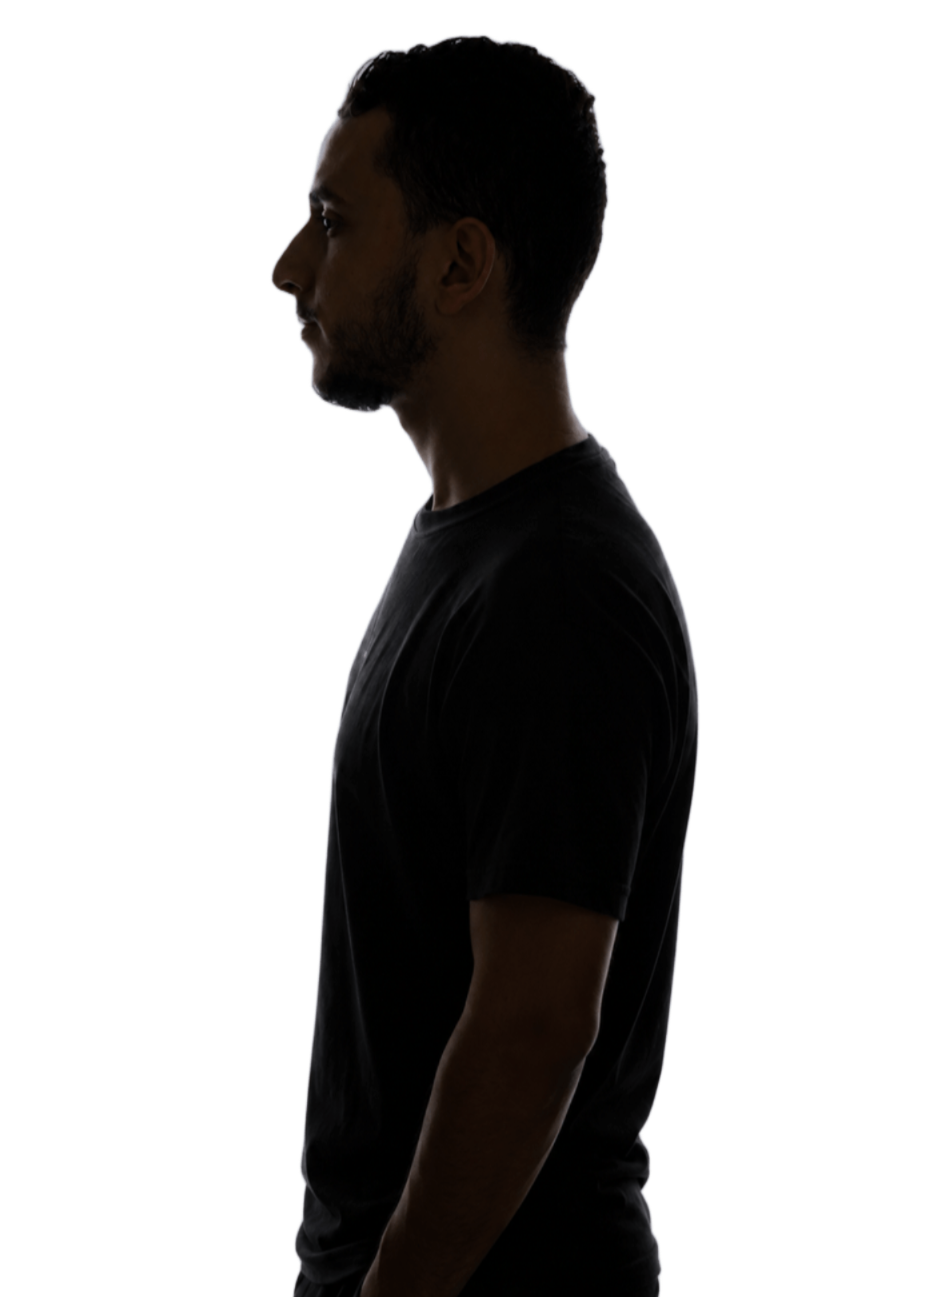
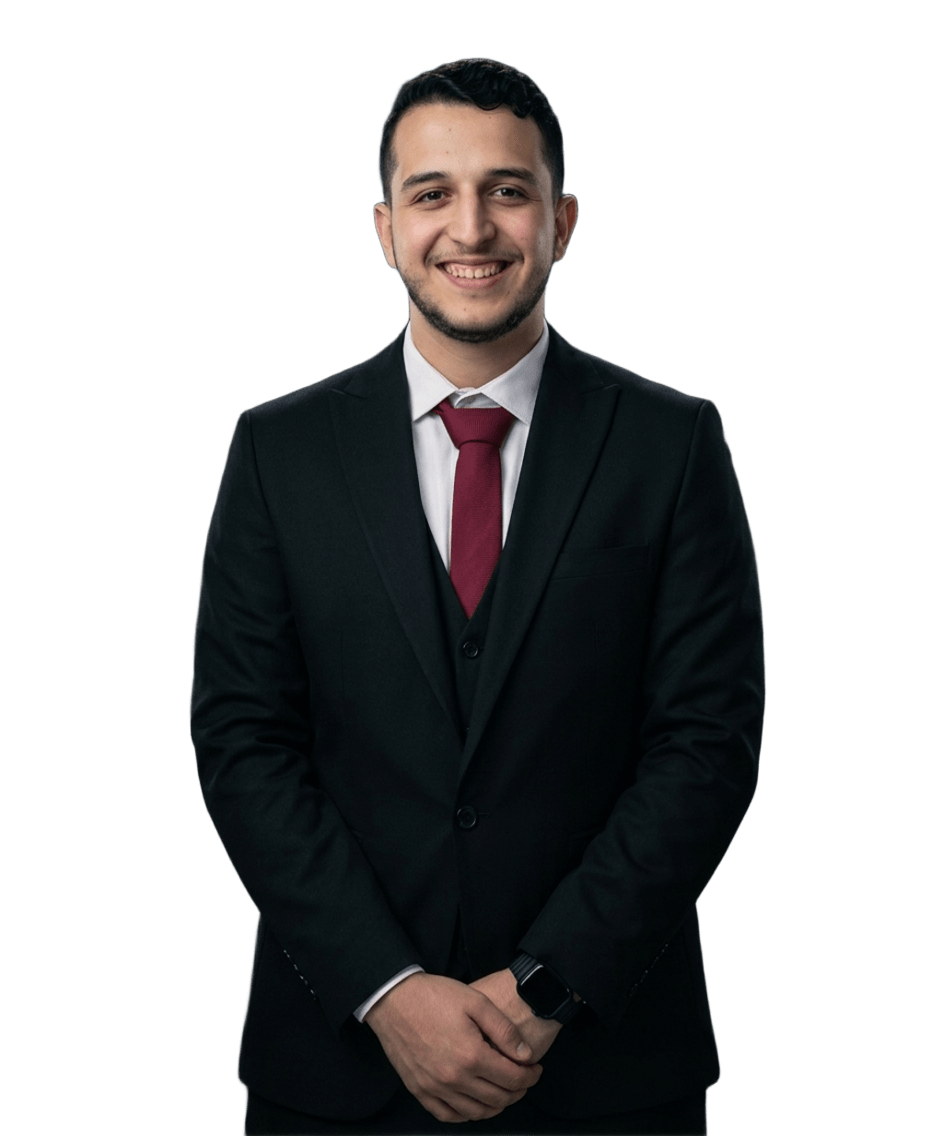
Quran Yutla: add real app screenshots gallery + phone-style cover
- Add 13 app screenshots (cover + shot-1..12) ordered by user journey
- Cover shows splash screen as a centered phone mockup on gradient
- Portrait gallery cells (2/3/4-col responsive grid)
- Update hero portfolio images

Changed region(s): [[0.1849, 0.0, 0.8321, 1.0], [0.5547, 0.7086, 0.678, 0.8319], [0.3698, 0.9551, 0.4006, 1.0]]

diff --git a/projects/quran-yutla/index.html b/projects/quran-yutla/index.html
@@ -38,7 +38,9 @@
   .btn.primary{background:var(--fg);color:var(--bg)}
   .btn.primary:hover{transform:translateY(-2px)}
   .btn.ghost:hover{background:var(--fg);color:var(--bg)}
-  .cover{margin-top:clamp(2rem,5vw,3rem);aspect-ratio:16/9;border-radius:22px;overflow:hidden;border:1px solid var(--border)}
+  .cover{margin-top:clamp(2rem,5vw,3rem);aspect-ratio:3/4;border-radius:22px;overflow:hidden;border:1px solid var(--border);display:flex;align-items:center;justify-content:center;background:linear-gradient(135deg,var(--accent-soft),var(--bg-alt))}
+  @media(min-width:760px){.cover{aspect-ratio:16/9}}
+  .cover img{height:90%;width:auto;max-width:92%;object-fit:contain;border-radius:1.4rem;box-shadow:0 24px 60px rgba(0,0,0,.35)}
   .ph{width:100%;height:100%;display:flex;align-items:center;justify-content:center;background:linear-gradient(135deg,var(--accent-soft),var(--bg-alt));color:var(--subtle);font-size:.85rem;font-weight:600;letter-spacing:.1em;text-transform:uppercase;text-align:center;padding:1rem}
   .ph svg{width:34px;height:34px;margin-bottom:.6rem;opacity:.6}
   section{padding:clamp(2rem,5vw,3.5rem) 0}
@@ -51,7 +53,10 @@
   ul.feat li::before{content:"";flex:0 0 auto;width:9px;height:9px;margin-top:.55rem;border-radius:3px;background:var(--accent)}
   .gallery{display:grid;grid-template-columns:repeat(2,1fr);gap:1rem}
   @media(min-width:760px){.gallery{grid-template-columns:repeat(3,1fr)}}
-  .gallery .cell{aspect-ratio:4/3;border-radius:16px;overflow:hidden;border:1px solid var(--border)}
+  @media(min-width:1000px){.gallery{grid-template-columns:repeat(4,1fr)}}
+  .gallery .cell{aspect-ratio:9/20;border-radius:16px;overflow:hidden;border:1px solid var(--border);background:var(--bg-alt);transition:transform .3s,border-color .3s}
+  .gallery .cell:hover{transform:translateY(-4px);border-color:var(--accent)}
+  .gallery .cell img{width:100%;height:100%;object-fit:cover;object-position:center;display:block}
   .divider{height:1px;background:var(--border)}
   .note{margin-top:1.2rem;font-size:.9rem;color:var(--subtle);font-style:italic}
   footer{padding:2.5rem 0 3.5rem;color:var(--subtle);font-size:.85rem;display:flex;justify-content:space-between;flex-wrap:wrap;gap:1rem}
@@ -72,10 +77,7 @@
     <div class="tags"><span class="tag">NestJS</span><span class="tag">PostgreSQL</span><span class="tag">Docker</span><span class="tag">Swagger</span><span class="tag">Paymob</span></div>
     <div class="actions"><a class="btn primary" href="https://github.com/Halimmsbah" target="_blank" rel="noreferrer noopener">View on GitHub <span aria-hidden="true">↗</span></a><a class="btn ghost" href="/#projects-section">Back to Work</a></div>
     <p class="note">This project's live link is private — the case study covers the architecture and scope.</p>
-    <div class="cover"><div class="ph"><div>
-      <svg viewBox="0 0 24 24" fill="none" stroke="currentColor" stroke-width="1.5"><rect x="3" y="3" width="18" height="18" rx="2"/><circle cx="8.5" cy="8.5" r="1.5"/><path d="m21 15-5-5L5 21"/></svg>
-      <div>Cover screenshot — replace me</div>
-    </div></div></div>
+    <div class="cover"><img src="cover.jpeg" alt="Quran Yutla — brand splash screen" loading="eager" /></div>
   </div>
   <section class="split">
     <div><div class="lbl">Overview</div><h2>What it is</h2></div>
@@ -89,7 +91,7 @@
   <div class="divider"></div>
   <section>
     <div class="lbl">Gallery</div><h2>Screens</h2>
-    <div class="gallery"><div class="cell"><div class="ph">Screenshot 1</div></div><div class="cell"><div class="ph">Screenshot 2</div></div><div class="cell"><div class="ph">Screenshot 3</div></div><div class="cell"><div class="ph">Screenshot 4</div></div><div class="cell"><div class="ph">Screenshot 5</div></div><div class="cell"><div class="ph">Screenshot 6</div></div></div>
+    <div class="gallery"><div class="cell"><img src="shot-1.jpeg" alt="Onboarding — learn Quran with AI and XR" loading="lazy" /></div><div class="cell"><img src="shot-2.jpeg" alt="Role selection — student, parent or teacher" loading="lazy" /></div><div class="cell"><img src="shot-3.jpeg" alt="Home dashboard with packages menu" loading="lazy" /></div><div class="cell"><img src="shot-4.jpeg" alt="Recitation setup — choose reciter and surah" loading="lazy" /></div><div class="cell"><img src="shot-5.jpeg" alt="Mushaf reading view — Surah Al-Baqarah" loading="lazy" /></div><div class="cell"><img src="shot-6.jpeg" alt="AI recitation analysis in progress" loading="lazy" /></div><div class="cell"><img src="shot-7.jpeg" alt="AI evaluation results — tajweed scores and required corrections" loading="lazy" /></div><div class="cell"><img src="shot-8.jpeg" alt="Subscription plans — sessions, country and discount code" loading="lazy" /></div><div class="cell"><img src="shot-9.jpeg" alt="Profile and settings — account, language, dark mode" loading="lazy" /></div><div class="cell"><img src="shot-10.jpeg" alt="More — FAQ, support and app info" loading="lazy" /></div><div class="cell"><img src="shot-11.jpeg" alt="App loading screen with Quran Yutla logo" loading="lazy" /></div><div class="cell"><img src="shot-12.jpeg" alt="Recitation analysis progress with memorization tip" loading="lazy" /></div></div>
   </section>
 </main>
 <footer class="wrap"><span>© 2026 Halim Msbah</span><a href="/#projects-section">← Back to all projects</a></footer>